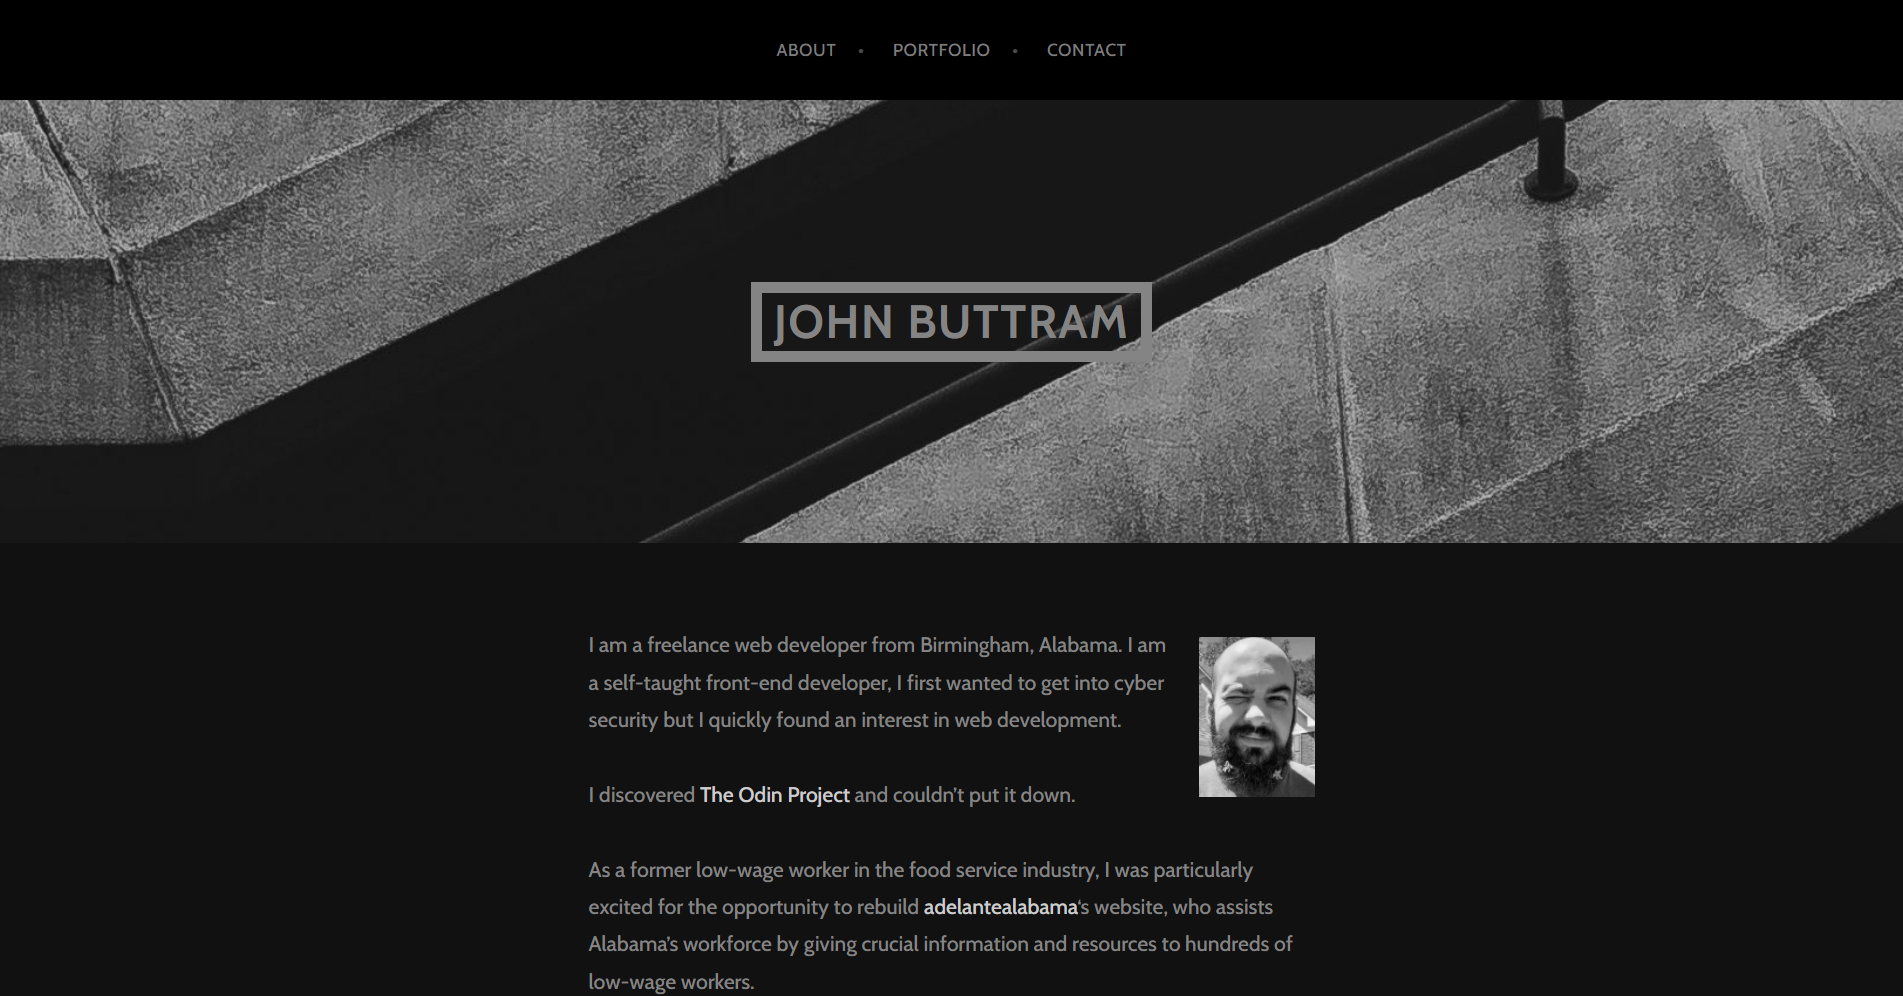
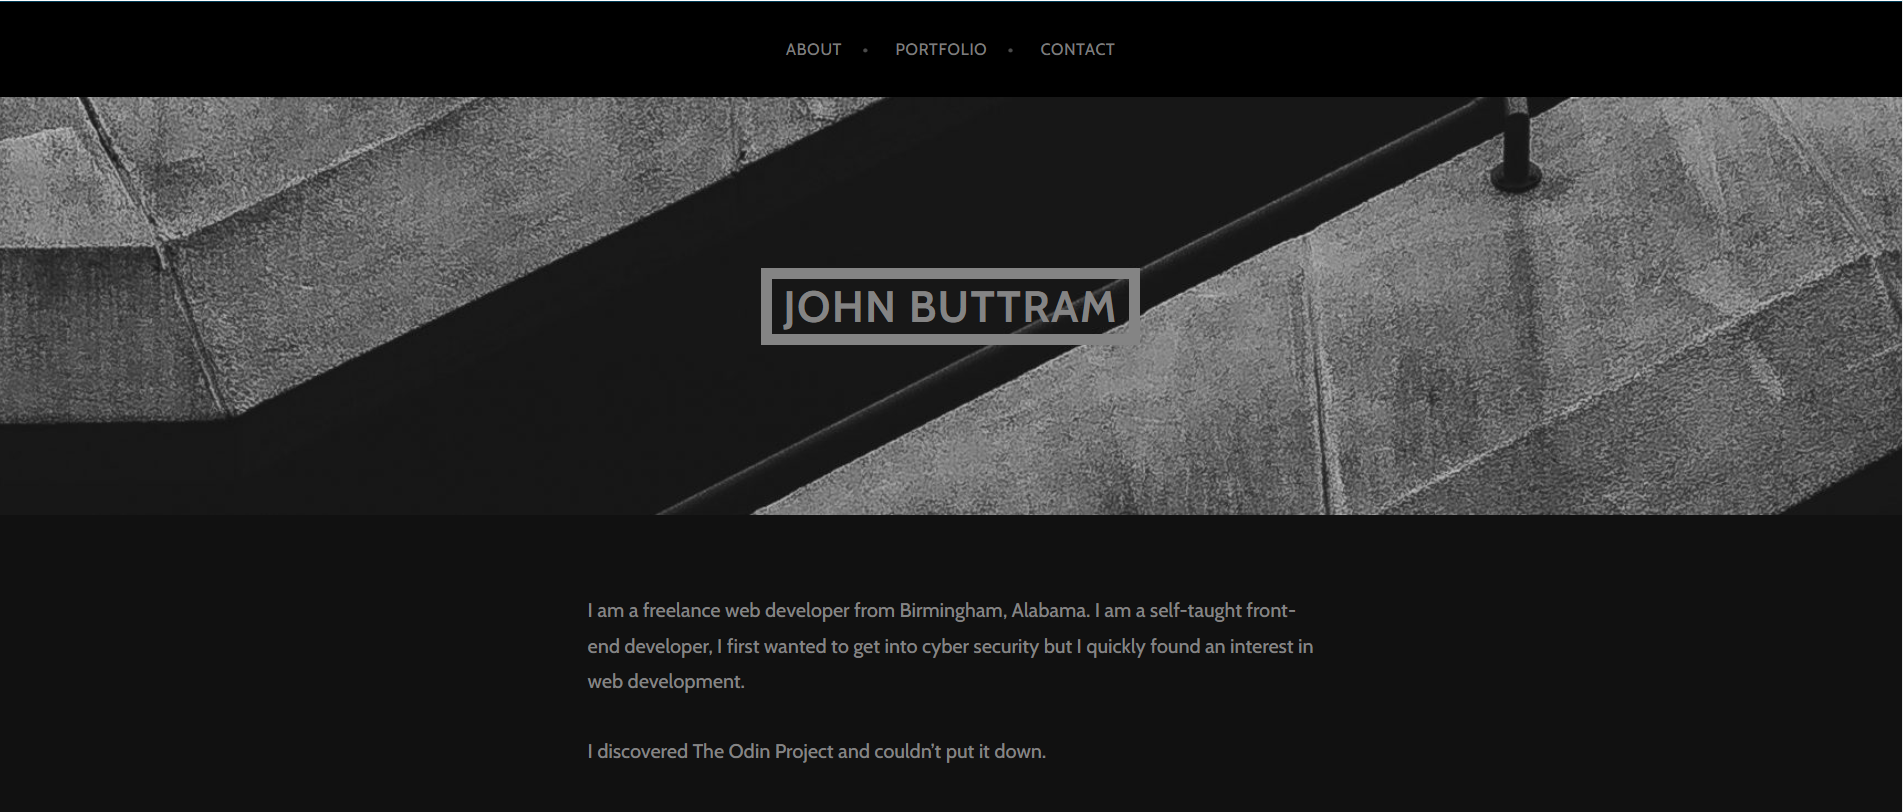
Changed first portfolio image, made the gallery title background the correct size on mobile devices.

diff --git a/assets/css/custom.css b/assets/css/custom.css
@@ -386,80 +386,11 @@ a.active.navMember {
   position: absolute;
   top: 25%;
   left: 0;
-  width: 100%;
+  width: 100% !important;
   text-align: center;
   font-size: 10vmin;
   color: #AAACAF;
   background: rgba(0, 0, 0, 0.6);
-}
-.aboutImg {
-  width: 60vw;
-  height: 65vh; 
-}
-
-@media (max-width: 1175px) {
-  .aboutImg {
-    width: 59vw;
-    height: auto;
-  }
-}
-
-@media (max-width: 769px) {
-  .aboutImg {
-    width: 60vw;
-    height: 50vh;
-  }
-}
-@media (max-width: 500px) {
-  .aboutImg {
-    width: 100vw;
-    height: auto;
-  }
-}
-
-.aboutContact {
-  text-align: justify;
-  font-size: 4vmin;
-  background-color: #3A3E47;
-  width: 40vw;
-}
-
-.aboutContact>p {
-  font-family: 'Lato', sans-serif;
-  margin-top: 20vh;
-  color: #AAACAF;
-  padding-left: 2vw;
-  padding-right: 2vw;
-}
-
-@media (max-width: 1175px) {
-  .aboutContact {
-    width: 41vw;
-    height: auto;
-  }
-
-  .aboutContact>p {
-    margin: auto;
-    font-size: 4vmin;
-  }
-}
-
-@media (max-width: 1281px) {
-  .aboutContact>p {
-    font-size: 2.5vmin;
-  }
-}
-
-@media (max-width: 769px) {
-  .aboutContact {
-    display: inline-block;
-    left: 0;
-    width: 100vw;
-  }
-
-  .aboutContact>p {
-    font-size: 3.25vmin;
-  }
 }
 
 /*/About*/
@@ -496,8 +427,10 @@ a.active.navMember {
   }
 }
 
+
 .gallerySize {
-  width: 350px;
+  width: 0;
+  min-width: 100%;
   height: 200px;
   margin-bottom: 0 !important;
   padding-bottom: 0;
@@ -505,7 +438,8 @@ a.active.navMember {
 
 .galleryBg {
   background: #1F2022;
-  width: auto;
+  width: 0;
+  min-width: 100%;
   padding: 0;
   margin-bottom: 0;
 }
@@ -515,93 +449,44 @@ a.active.navMember {
   font-size: 2vmin;
 }
 
-.galleryBg>a>p {
-  color: white;
-  font-size: 2vmin;
-}
-
-.galleryBg>a>p:hover {
-  text-decoration: underline;
+@media (max-width: 561px) {
+  .galleryBg>p {
+    font-size: 5vmin;
+  }
 }
 
 @media (max-width: 1556px) {
   .galleryBg {
     height: auto;
     margin-top: 0;
+    width: 0;
+    min-width: 100%;
   }
 }
 @media (max-width: 766px) {
  .galleryBg{
- width: auto;
+  width: 0;
+  min-width: 100%;
+  margin-bottom: 5vh;
  }
 }
-@media (max-width: 576px) {
-.galleryBg {
-  margin-bottom: 5vh;
-  width: 355px;
-  margin-left: 17.5%;
-}  
-}
-@media (max-width: 541px) {
-  .galleryBg {
-    margin-bottom: 5vh;
-    width: 350px;
-    margin-left: 13.5%;
-  }  
-  }
-  @media (max-width: 415px) {
-    .galleryBg {
-      margin-bottom: 1vh;
-      width: 350px;
-      margin-left: 0%;
-    }  
-    }
-    @media (max-width: 376px) {
-      .galleryBg {
-        margin-bottom: 1vh;
-        width: 315.46px;
-        margin-left: 0;
-      }  
-      }
-      @media (max-width: 361px) {
-        .galleryBg {
-          margin-bottom: 1vh;
-          width: 300px;
-          margin-left: 0;
-        }  
-        }
-        @media (max-width: 321px) {
-          .galleryBg {
-            margin-bottom: 1vh;
-            width: 260px;
-            margin-left: 0;
-          }  
-          }
 
-@media (max-width: 750px) {
-  .galleryBg>p {
-    font-size: 3vmin;
-  }
-}
-
-@media (max-width: 524px) {
-  .galleryBg>p {
-    font-size: 2.5vmin;
-
-  }
-}
 
 .galleryName {
    font-size: 3vmin;
   margin-top: 0;
   padding-top: 1.5vmin;
+  width: 0;
+  min-width: 100%;
  }
 
 @media (max-width: 677px) {
   .galleryName {
     font-size: 5vmin;
     padding-top: 0;
-    margin-top: 0 !important
+    margin-top: 0 !important;
+    width: 0;
+    min-width: 100%;
   }
 }
 
